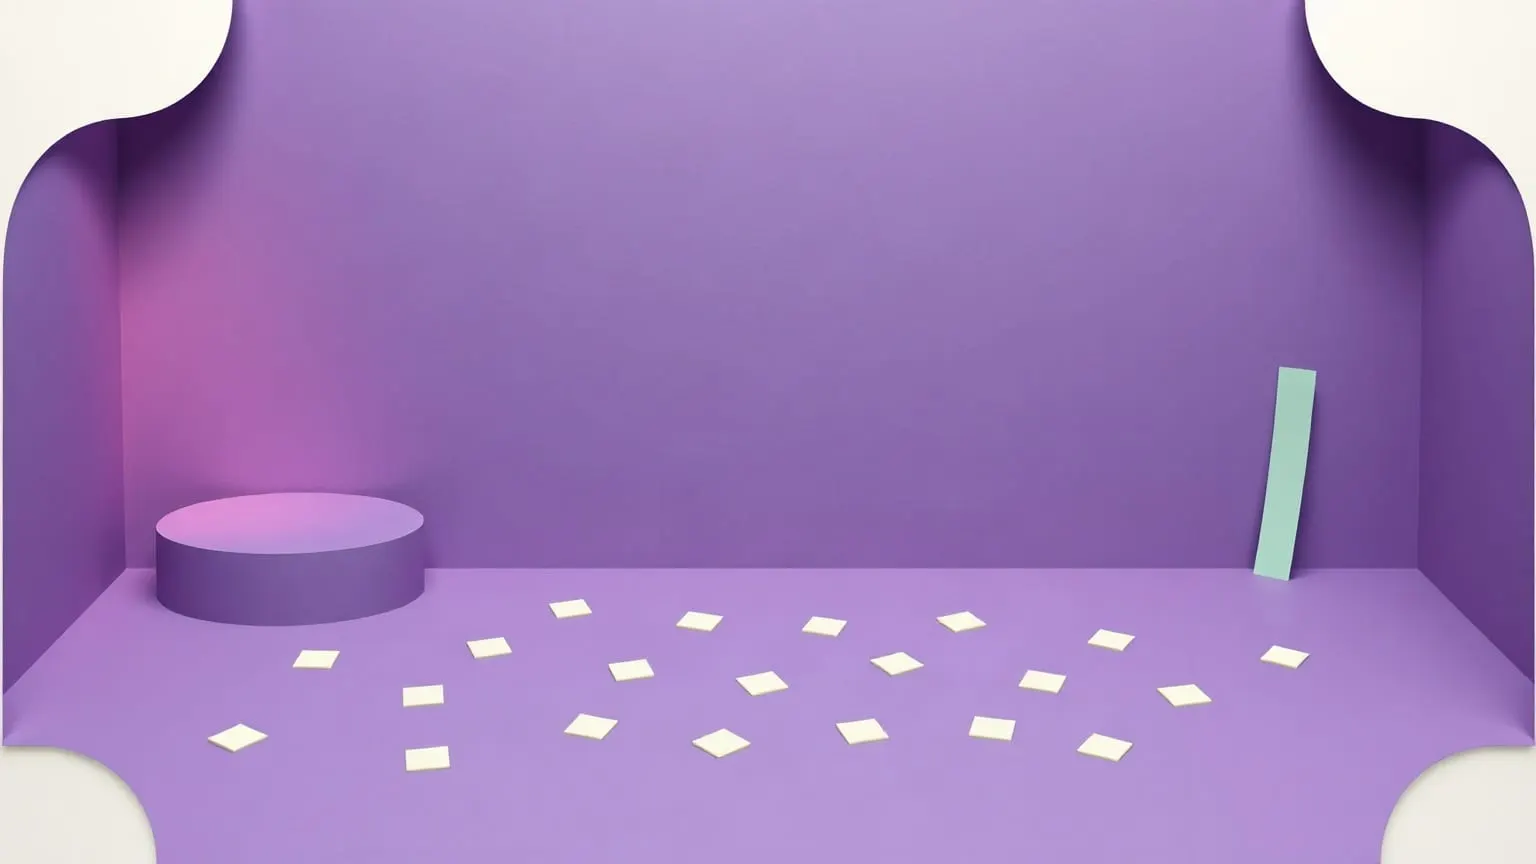
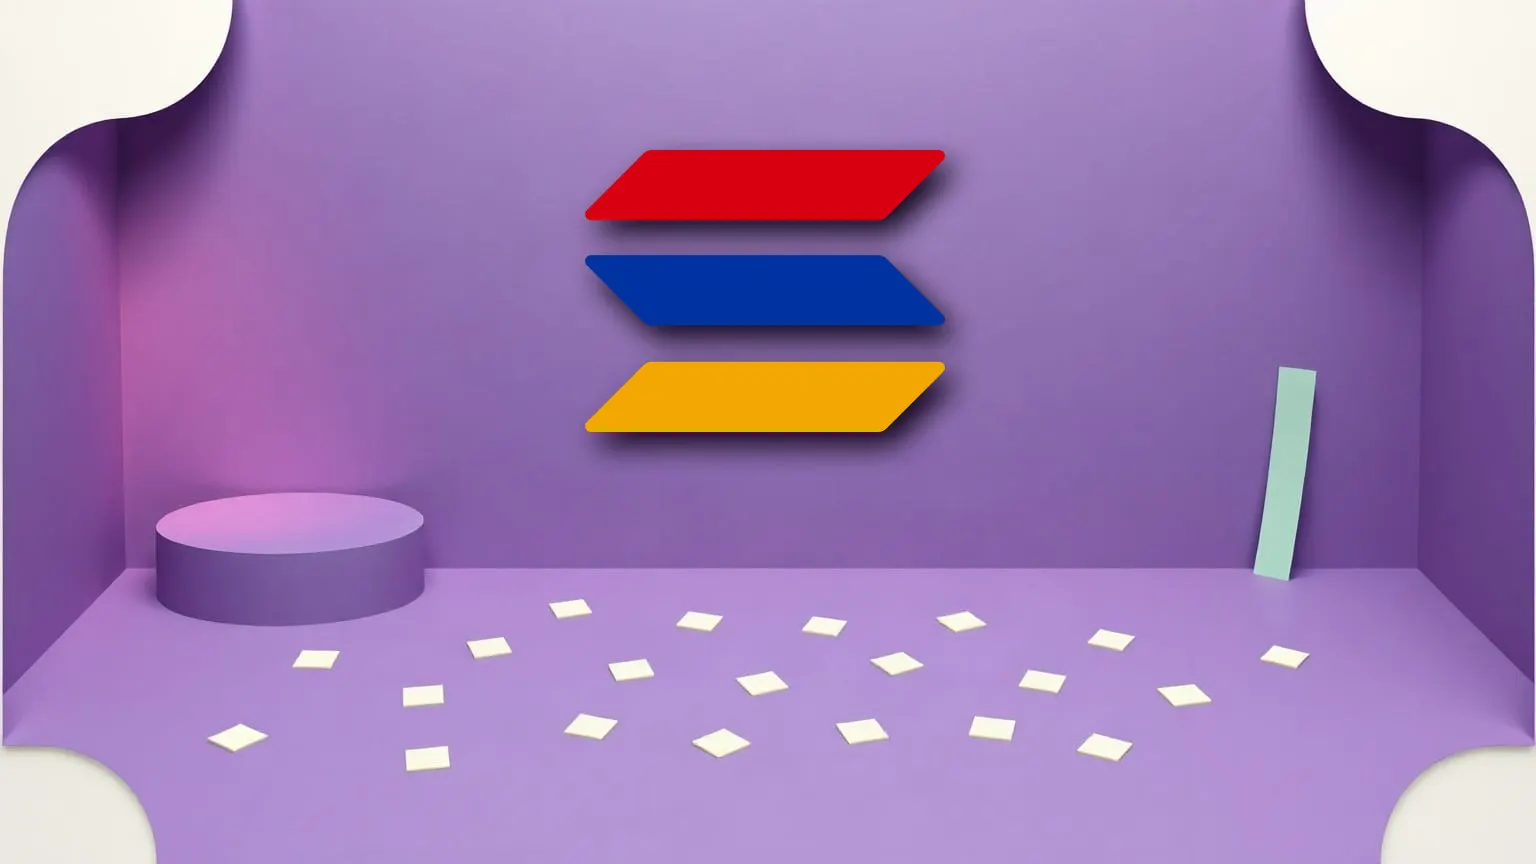
The Solana mark in Armenian colours on the Yerevan cover
The mark has three bars and the flag has three bands, in the same order,
so the colours go on exactly as they fly: red, blue, apricot. Flag
colours are the official ones, the geometry is Solana's own.

Drawn as SVG and committed under tools/marks/ rather than generated, for
two reasons. Flux writes garbled lettering into anything logo-shaped, and
a mark that has to be exact is not a thing to ask a diffusion model for.
And a committed source means the cover can be rebuilt rather than only
re-uploaded — the header records the composite parameters, because
re-running tools/covers.mjs regenerates the room without the mark.

It hangs rather than sticks: its own alpha, dimmed and blurred, sits
behind it offset down and across, so it reads as a sign on the wall in a
scene that already has real shadows. imageAlt now says what is actually
in the picture.

Note for later: the abstract-cover rule is a house style for the city
sites, not for sol2go, which is allowed its crypto iconography.

Changed region(s): [[0.375, 0.1562, 0.625, 0.5312]]

diff --git a/packages/content/src/events/sol2go.ts b/packages/content/src/events/sol2go.ts
@@ -805,7 +805,7 @@ export const items: EventItem[] = [
     slug: "solana-armenia-meetup-yerevan-july-2026",
     site: "sol2go",
     image: "/covers/solana-armenia-meetup-yerevan-july-2026.jpg",
-    imageAlt: "A low wide room in violet paper with a small raised platform at one end, flat cream and mint rectangles scattered across the floor and one tall mint band standing apart at the right",
+    imageAlt: "A low wide room in violet paper with the three-bar Solana mark hanging on the back wall in the red, blue and apricot of the Armenian flag, a small raised platform at one end and flat cream and mint rectangles scattered across the floor",
     imageKind: "generated",
     imageWidth: 1536,
     imageHeight: 864,
